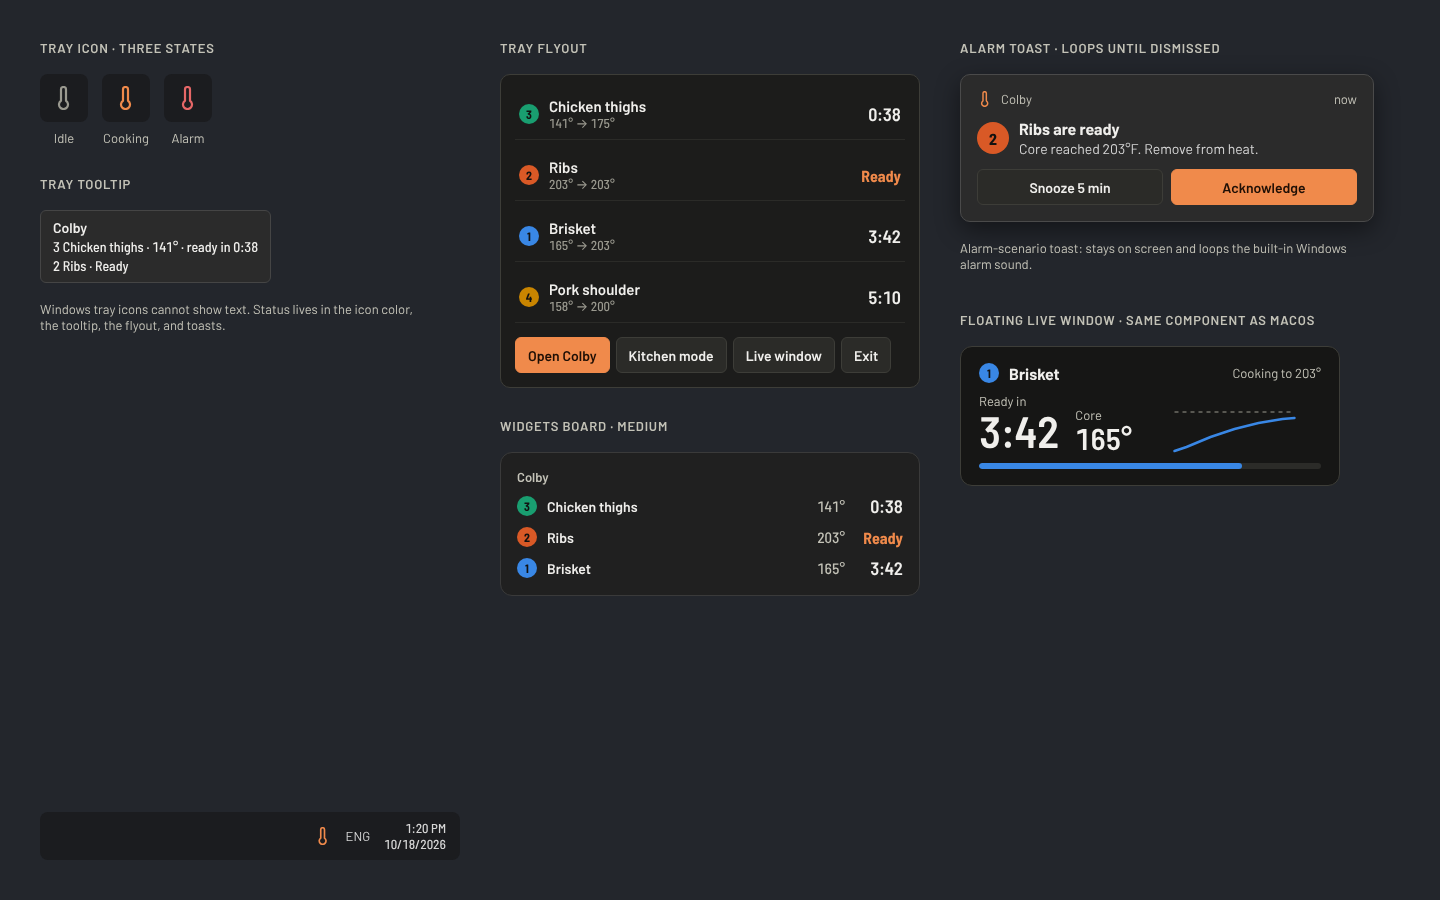
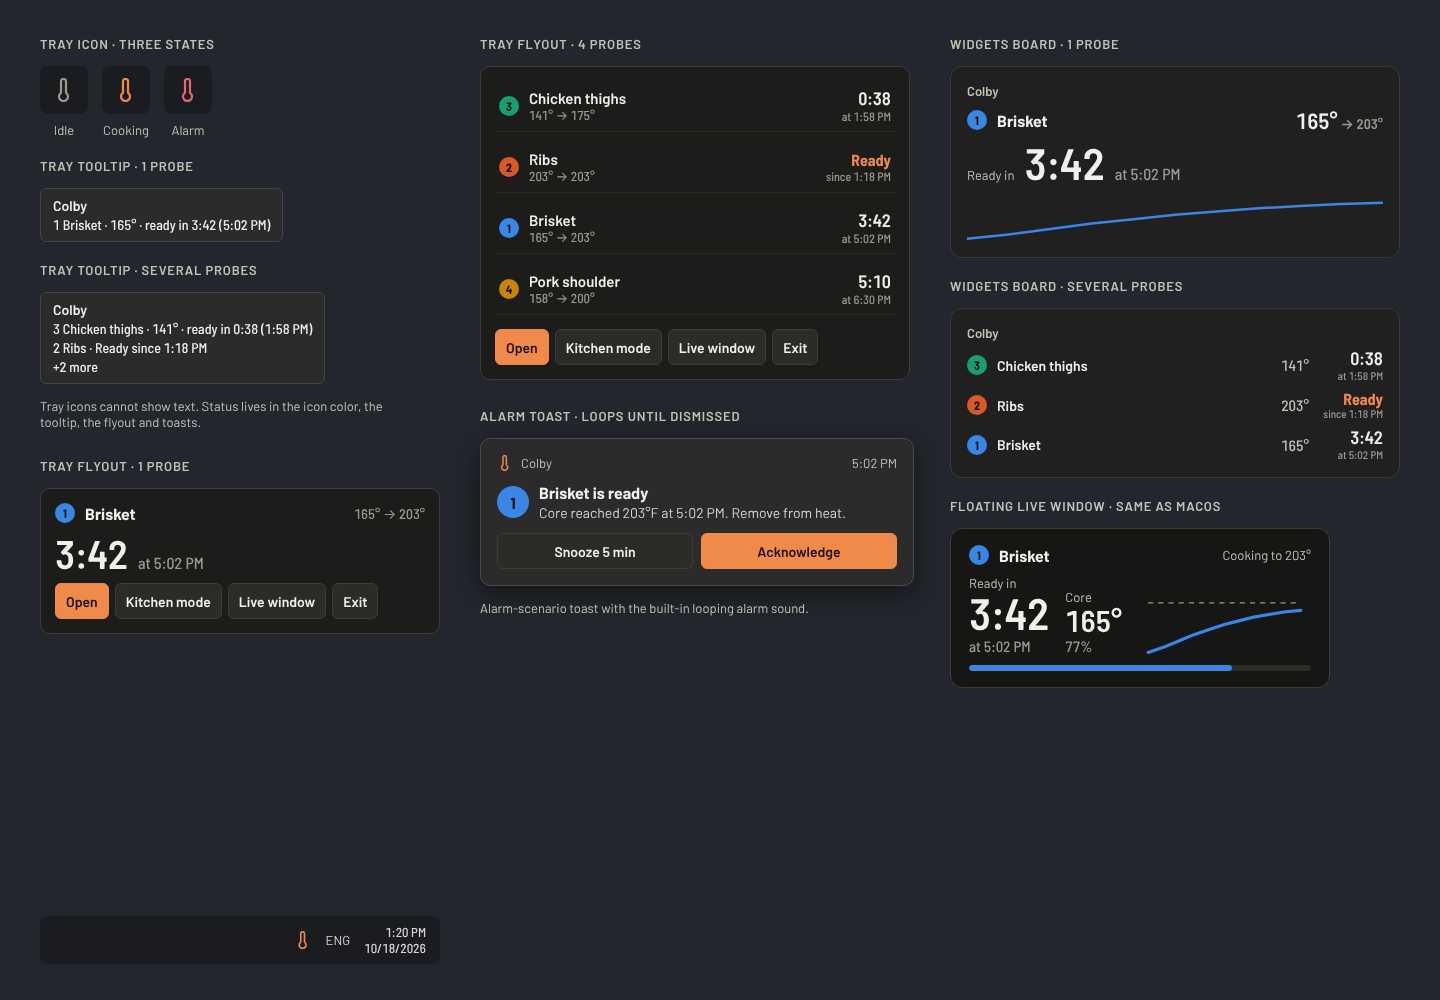
Show completion time on all live surfaces; add single-probe designs; refresh screenshots
Claude-Session: https://claude.ai/code/session_01XkQe4iPihTaUX5BRFTHjHt

diff --git a/docs/06-ux-plan.md b/docs/06-ux-plan.md
@@ -318,9 +318,11 @@ macOS notification banners use `UNNotificationSound.default` (system sound names
 
 | Board | Shows |
 |---|---|
+| Main window · 1 probe | Most common case; same layout with one chip |
 | Main window · 3 probes | Graph-first layout, hover crosshair, chip selection; tweaks: probes 1/3/8, alerting, time format (stands in for the setting) |
 | Main window · alarm firing | Red alert band, alerting chip |
 | Main window · 8 probes | Non-focused probes core-only, end-label de-collision |
+| Kitchen mode · 1 probe | Dedicated full-window layout |
 | Kitchen mode · 4 probes / alarm | 2×2 tiles with trend lines; full-screen red takeover |
 | Live Activity equivalents · macOS | Menu bar states, popover, floating window, widgets |
 | Live Activity equivalents · Windows | Tray states, tooltip, flyout, widgets board, alarm toast |
@@ -330,10 +332,21 @@ macOS notification banners use `UNNotificationSound.default` (system sound names
 | Settings | Sections: General (units, prediction time with preview, menu bar, login, keep awake), Alerts and sounds (volume, Do Not Disturb, sound per event, default alerts for new probes), Devices (followed probes, MeatNet nodes), History and data, Diagnostics (links, Record session), About |
 | Design tokens | Colors, validated probe palette (dark + light), type scale, sound map, spacing |
 
-Completion time: the chosen format is primary; where space allows (inspector, kitchen tiles) the other format sits beside it at lower emphasis (muted, ~30% of the primary size), e.g. `3:42  at 5:02 PM` or `5:02  PM · in 3:42`. Chips, menu bar and widgets show the primary format only. Graph ready markers always use clock time.
+Completion time: the chosen format is primary; the other is always shown beside or under it, muted and smaller. Applies to every surface:
 
-Rendered screenshots: `docs/design/screenshots/` (`MainAt.png`, `KitchenAt.png` show the "Ready at" setting).
+| Surface | Primary | Secondary |
+|---|---|---|
+| Main inspector, kitchen tiles | `3:42` | `at 5:02 PM` (or `5:02` + `PM · in 3:42`) |
+| Probe chips | `3:42` | none (no room) |
+| Menu bar item | `165° · 3:42` | `5:02` (muted, no AM/PM) |
+| Popover / tray flyout rows | `3:42` | `at 5:02 PM` under it; ready rows show `since 1:18 PM` |
+| Floating live window, widgets, Widgets board | `3:42` | `at 5:02 PM` |
+| Tray tooltip | `ready in 3:42` | `(5:02 PM)` |
+| Alarm toast | n/a | time reached in body |
+| Graph markers | clock time | n/a |
 
-Rendered screenshots (all): `docs/design/screenshots/` (headless Chromium, 1440 px wide).
+Single probe is the most common case. Every surface has a 1-probe version, listed first. Kitchen mode with 1 probe uses a dedicated full-window layout: name and core temperature in the header, 400 px countdown with 72 px secondary time, progress bar and wide trend line.
+
+Screenshots: `docs/design/screenshots/`, regenerated together from the current canvas every time (`render-all.sh` in the scratchpad). Set: Main1, Main1At, Main, MainAlert, Main8, Kitchen1, Kitchen1At, Kitchen, KitchenAlert, LiveActivity, WindowsSurfaces, Sheets, Tokens, Onboarding, History, Settings, SettingsAlerts, SettingsDevices.
 
 Next: empty and error states board; then U2 (tokens.json + component specs).
